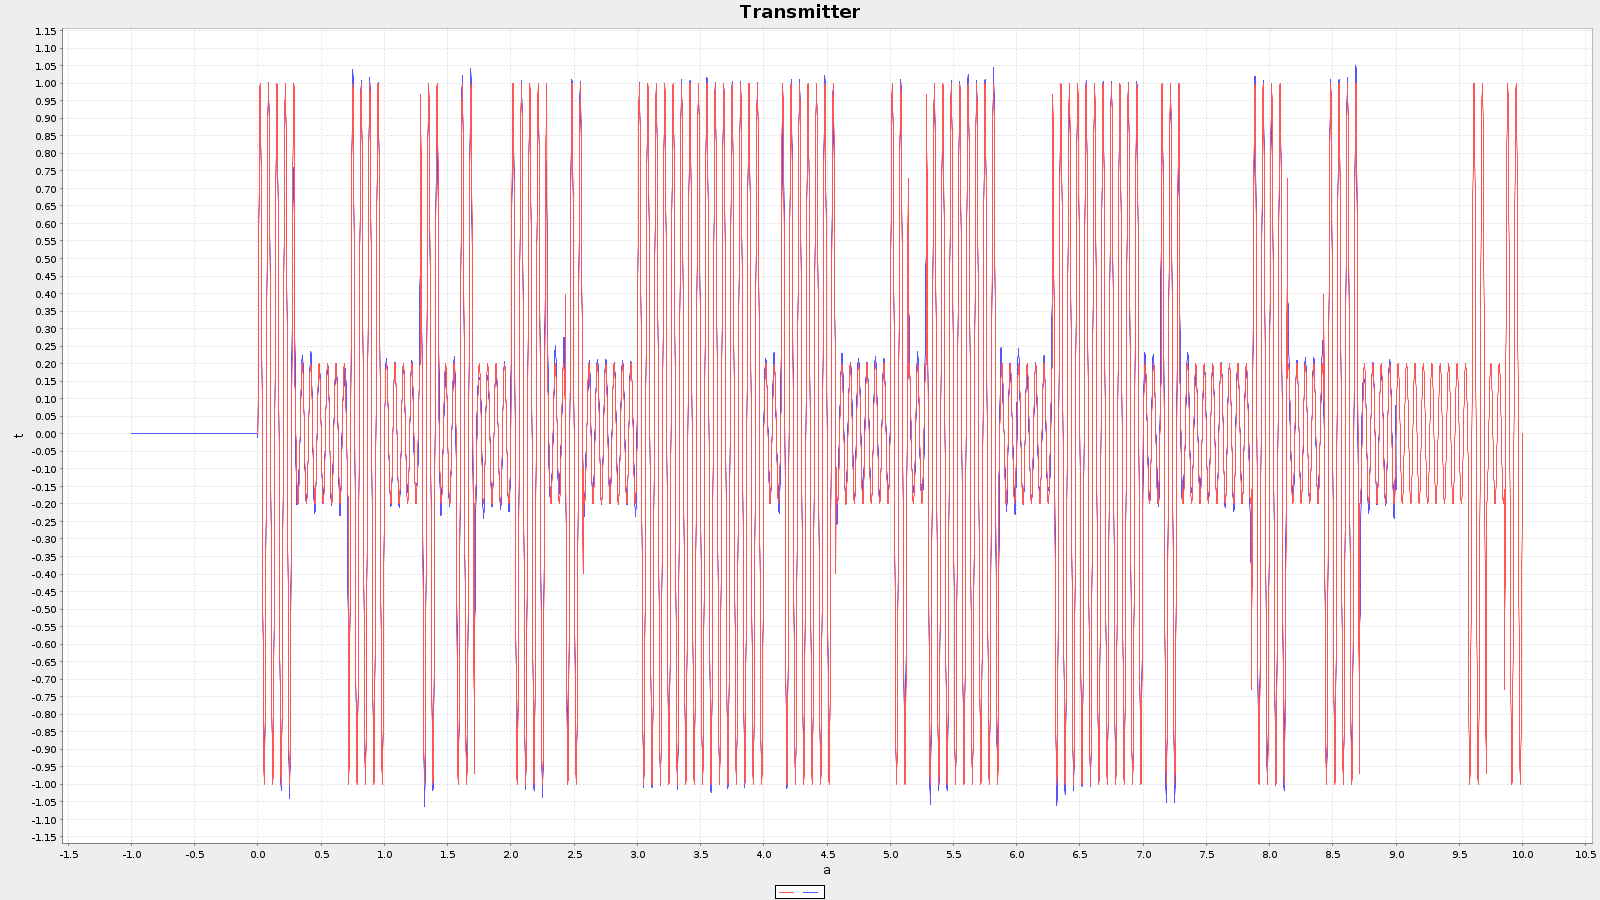
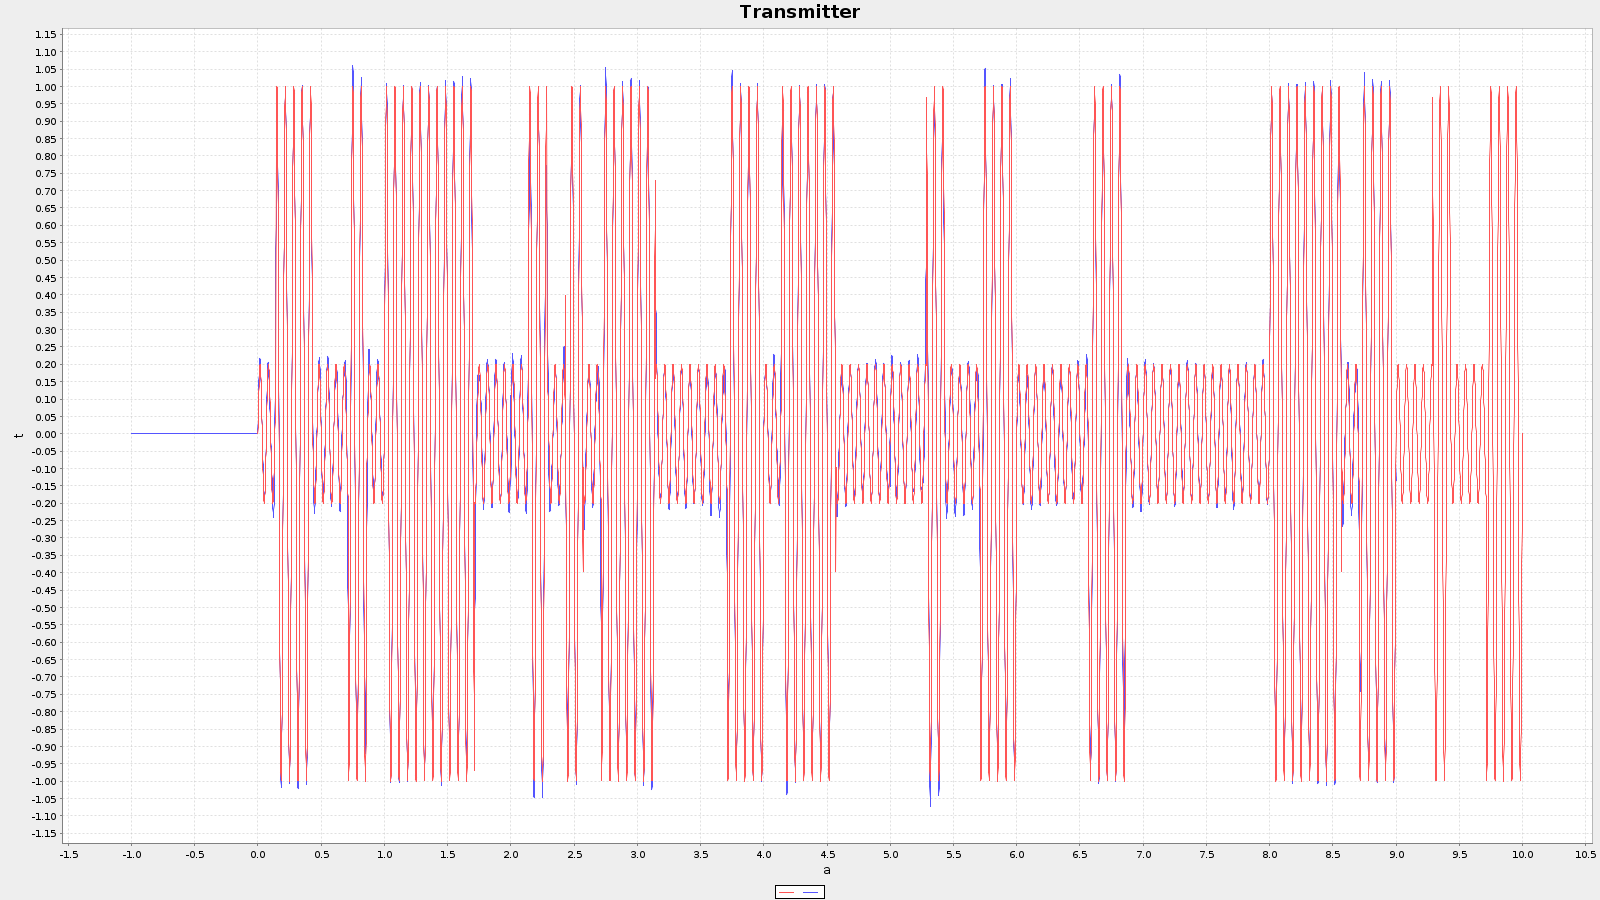
added byte transmission visual

diff --git a/channel-simulation/java-channel-simulation/src/main/java/display/Display.java b/channel-simulation/java-channel-simulation/src/main/java/display/Display.java
@@ -3,15 +3,31 @@ package display;
 import java.awt.*;
 import java.awt.event.WindowAdapter;
 import java.awt.event.WindowEvent;
+import java.util.ArrayList;
 
 public class Display extends Frame implements Runnable {
 
     private final Scope transmitterScope, channelScope;
-    private final TextArea dataIn, dataOut;
+    private final TextField dataIn, dataOut;
 
-    public void update(double transmitterValue, double channelValue, double timeStep) {
+    private String byteToString(byte b) {
+        String intStr = Integer.toBinaryString(b);
+        String outStr = "";
+        if (intStr.length() > 8) {
+            outStr = intStr.substring(24);
+        } else {
+            for (int i = 8; i > intStr.length(); i--) outStr += "0";
+            outStr += intStr;
+        }
+
+        return outStr;
+    }
+
+    public void update(double transmitterValue, double channelValue,  byte byteIn, byte byteOut, double timeStep) {
         this.transmitterScope.update(transmitterValue, timeStep);
         this.channelScope.update(channelValue, timeStep);
+        this.dataIn.setText(byteToString(byteIn));
+        this.dataOut.setText(byteToString(byteOut));
     }
 
     private void init() {
@@ -31,14 +47,14 @@ public class Display extends Frame implements Runnable {
         this.add(this.channelScope);
 
         this.dataIn.setSize(100, 20);
-        this.dataIn.setLocation(0, this.getHeight() - this.dataOut.getHeight());
+        this.dataIn.setLocation(0, this.transmitterScope.getY() + this.transmitterScope.getHeight());
         this.dataIn.setVisible(true);
         this.add(this.dataIn);
 
-        this.dataIn.setSize(100, 20);
-        this.dataIn.setLocation(0, this.getHeight() - this.dataOut.getHeight());
-        this.dataIn.setVisible(true);
-        this.add(this.dataIn);
+        this.dataOut.setSize(100, 20);
+        this.dataOut.setLocation(this.getWidth() - this.dataOut.getWidth(), this.channelScope.getY() + this.channelScope.getHeight());
+        this.dataOut.setVisible(true);
+        this.add(this.dataOut);
 
         this.addWindowListener(new WindowAdapter() {
             @Override
@@ -60,7 +76,7 @@ public class Display extends Frame implements Runnable {
         super(title);
         this.transmitterScope = new Scope();
         this.channelScope = new Scope();
-        this.dataIn = new TextArea();
-        this.dataOut = new TextArea();
+        this.dataIn = new TextField();
+        this.dataOut = new TextField();
     }
 }

diff --git a/channel-simulation/java-channel-simulation/src/main/java/simulator/Simulator.java b/channel-simulation/java-channel-simulation/src/main/java/simulator/Simulator.java
@@ -28,10 +28,12 @@ public class Simulator {
             long deltaT = System.nanoTime();
 
             double f = transmitter.send(t);
+            byte byteIn = this.transmitter.getCurrentByte();
             transmitterOut.add(new XYDataItem(t, f));
             f = channel.output(f);
             channelOut.add(new XYDataItem(t - timeStep * 1000, f));
             receiver.receive(f, t);
+            byte byteOut = receiver.getCurrentByte();
 
             if (!realtime) continue;
 
@@ -43,7 +45,7 @@ public class Simulator {
             }
 
             if (this.display == null) continue;
-            this.display.update(transmitterOut.get(transmitterOut.size() - 1).getY().doubleValue(), channelOut.get(channelOut.size() - 1).getY().doubleValue(), this.timeStep);
+            this.display.update(transmitterOut.get(transmitterOut.size() - 1).getY().doubleValue(), channelOut.get(channelOut.size() - 1).getY().doubleValue(), byteIn, byteOut, this.timeStep);
         }
 
 

diff --git a/channel-simulation/java-channel-simulation/src/main/java/receiver/Receiver.java b/channel-simulation/java-channel-simulation/src/main/java/receiver/Receiver.java
@@ -33,4 +33,9 @@ public class Receiver {
     public Demodulator getDemodulator() {
         return demodulator;
     }
+
+    public byte getCurrentByte() {
+        if (this.getDemodulator().getReceivedBytes().isEmpty()) return (byte) 0xFF;
+        else return this.demodulator.getReceivedBytes().get(this.demodulator.getReceivedBytes().size() - 1);
+    }
 }

diff --git a/channel-simulation/java-channel-simulation/src/main/java/transmitter/Transmitter.java b/channel-simulation/java-channel-simulation/src/main/java/transmitter/Transmitter.java
@@ -30,4 +30,9 @@ public class Transmitter {
     public void setFilter(Filter filter) {
         this.filter = filter;
     }
+
+    public byte getCurrentByte() {
+        if (this.modulator.getSentBytes().isEmpty()) return (byte) 0xFF;
+        else return this.modulator.getSentBytes().get(this.modulator.getSentBytes().size() - 1);
+    }
 }
